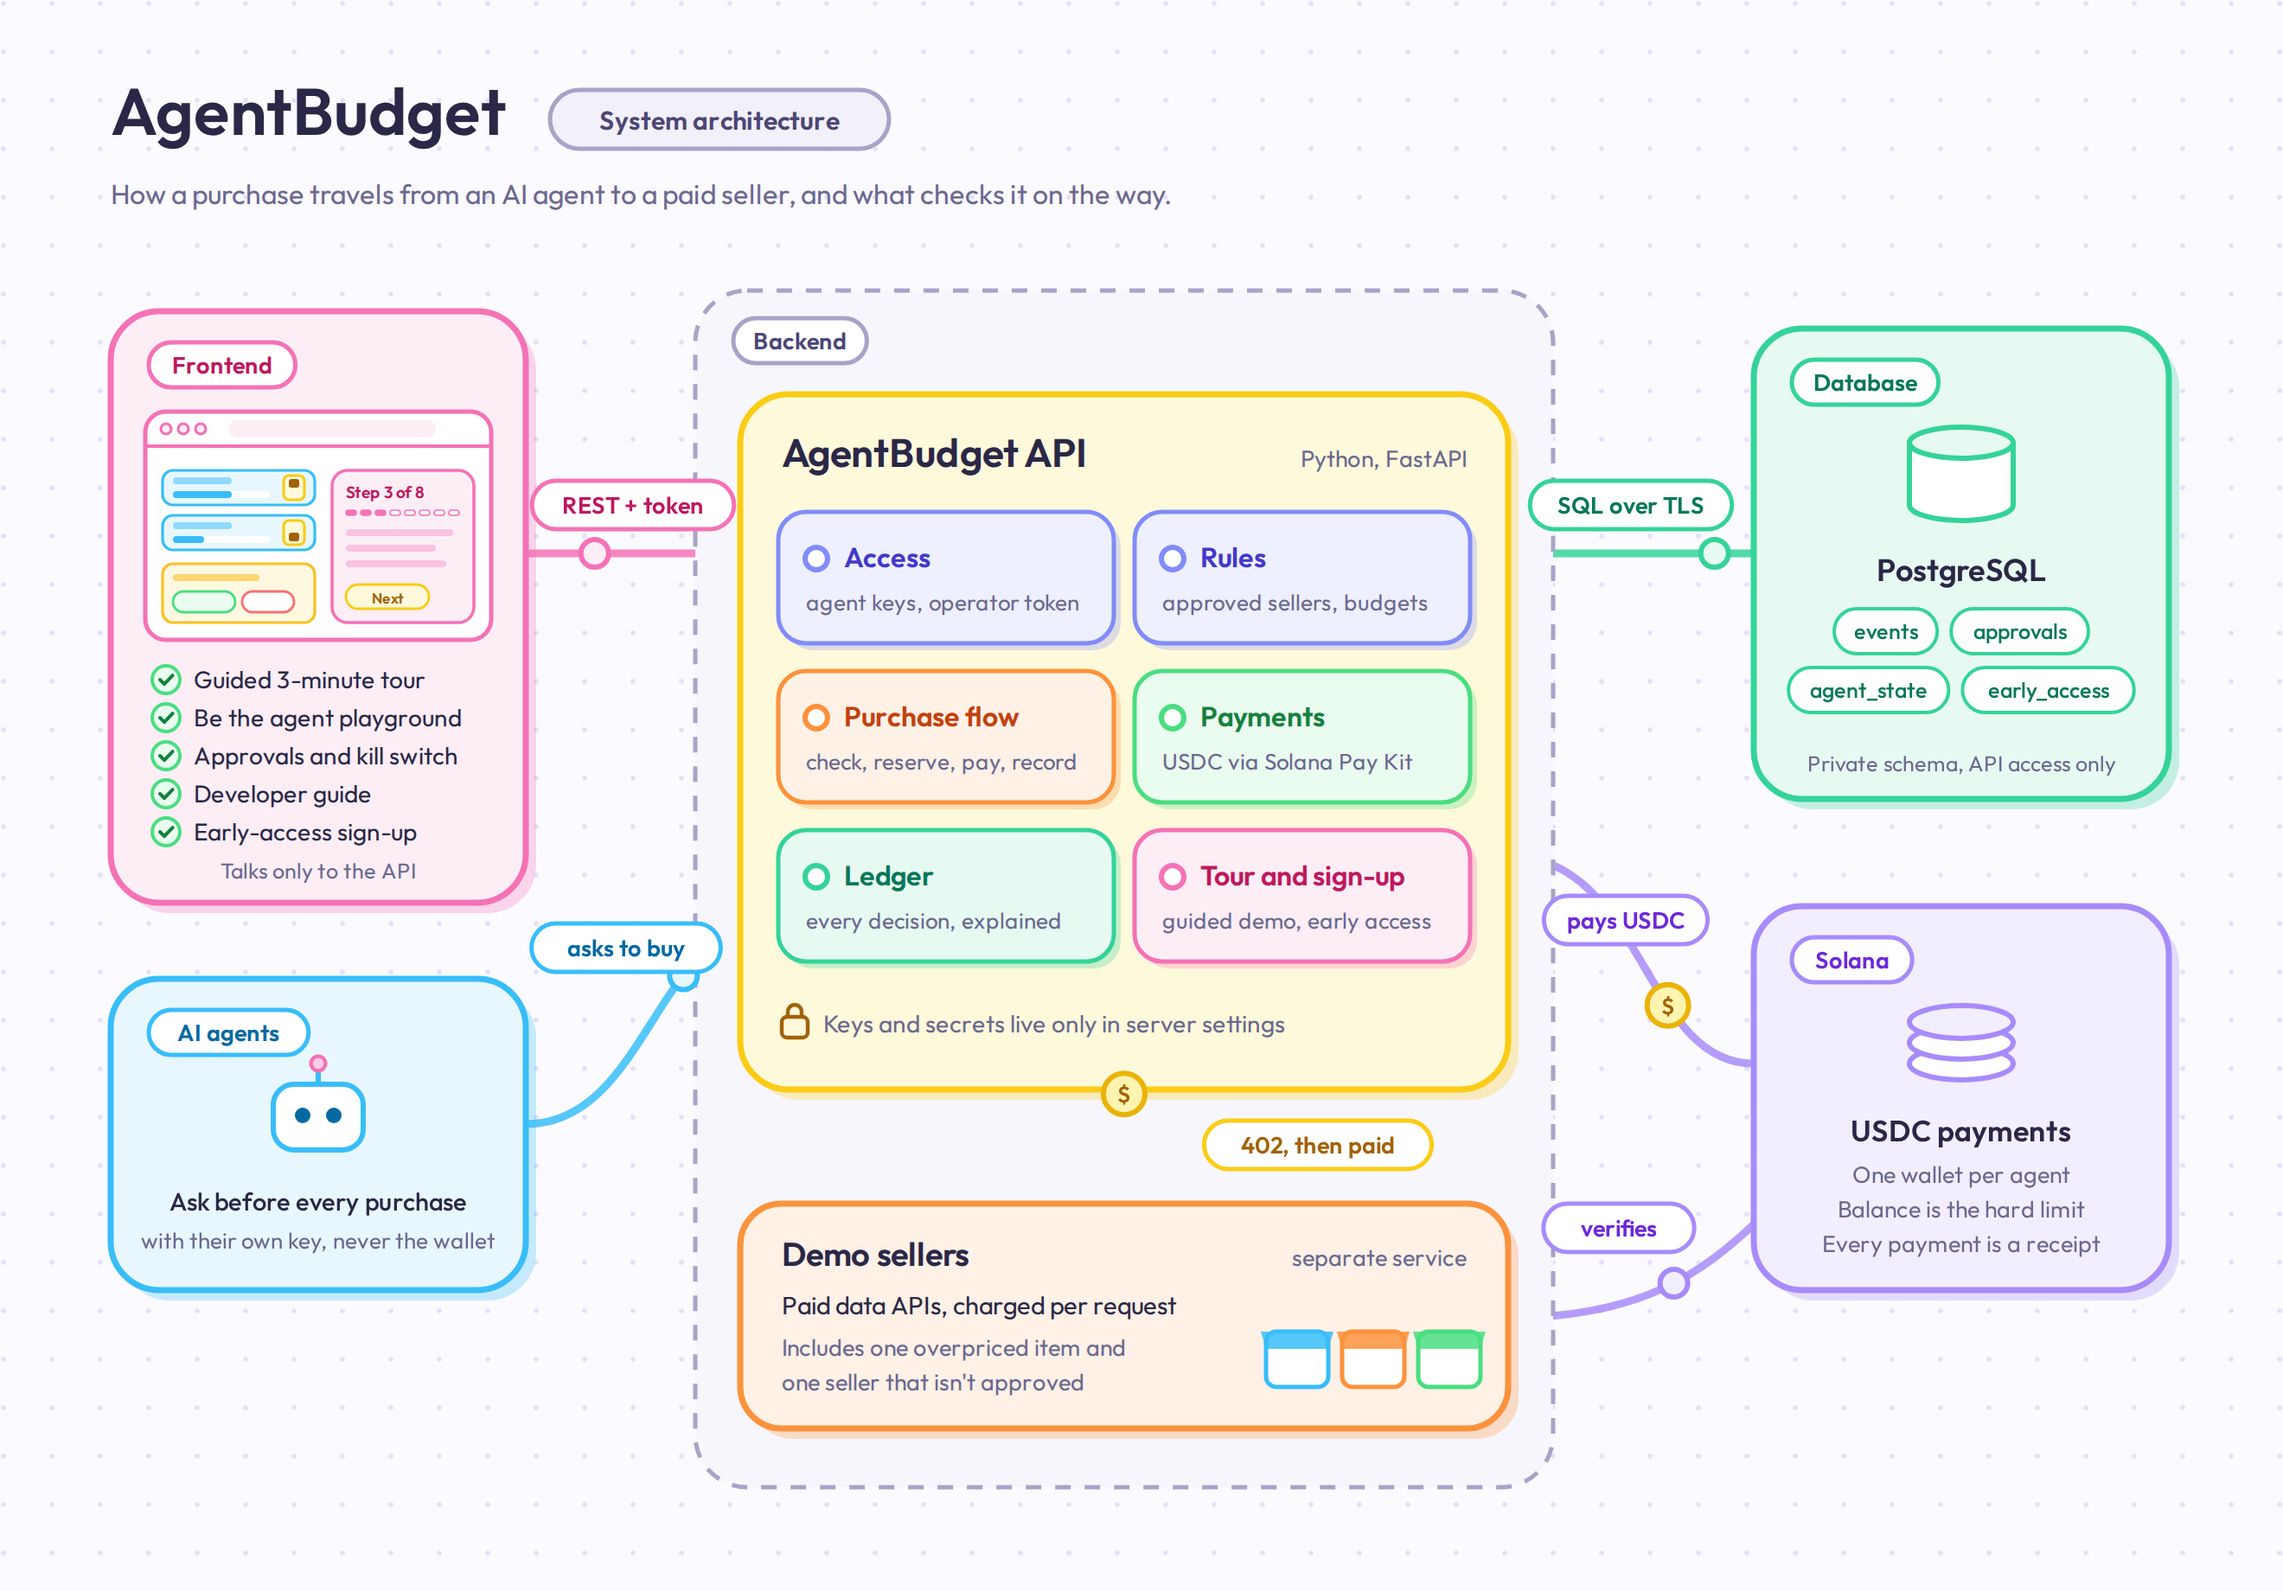
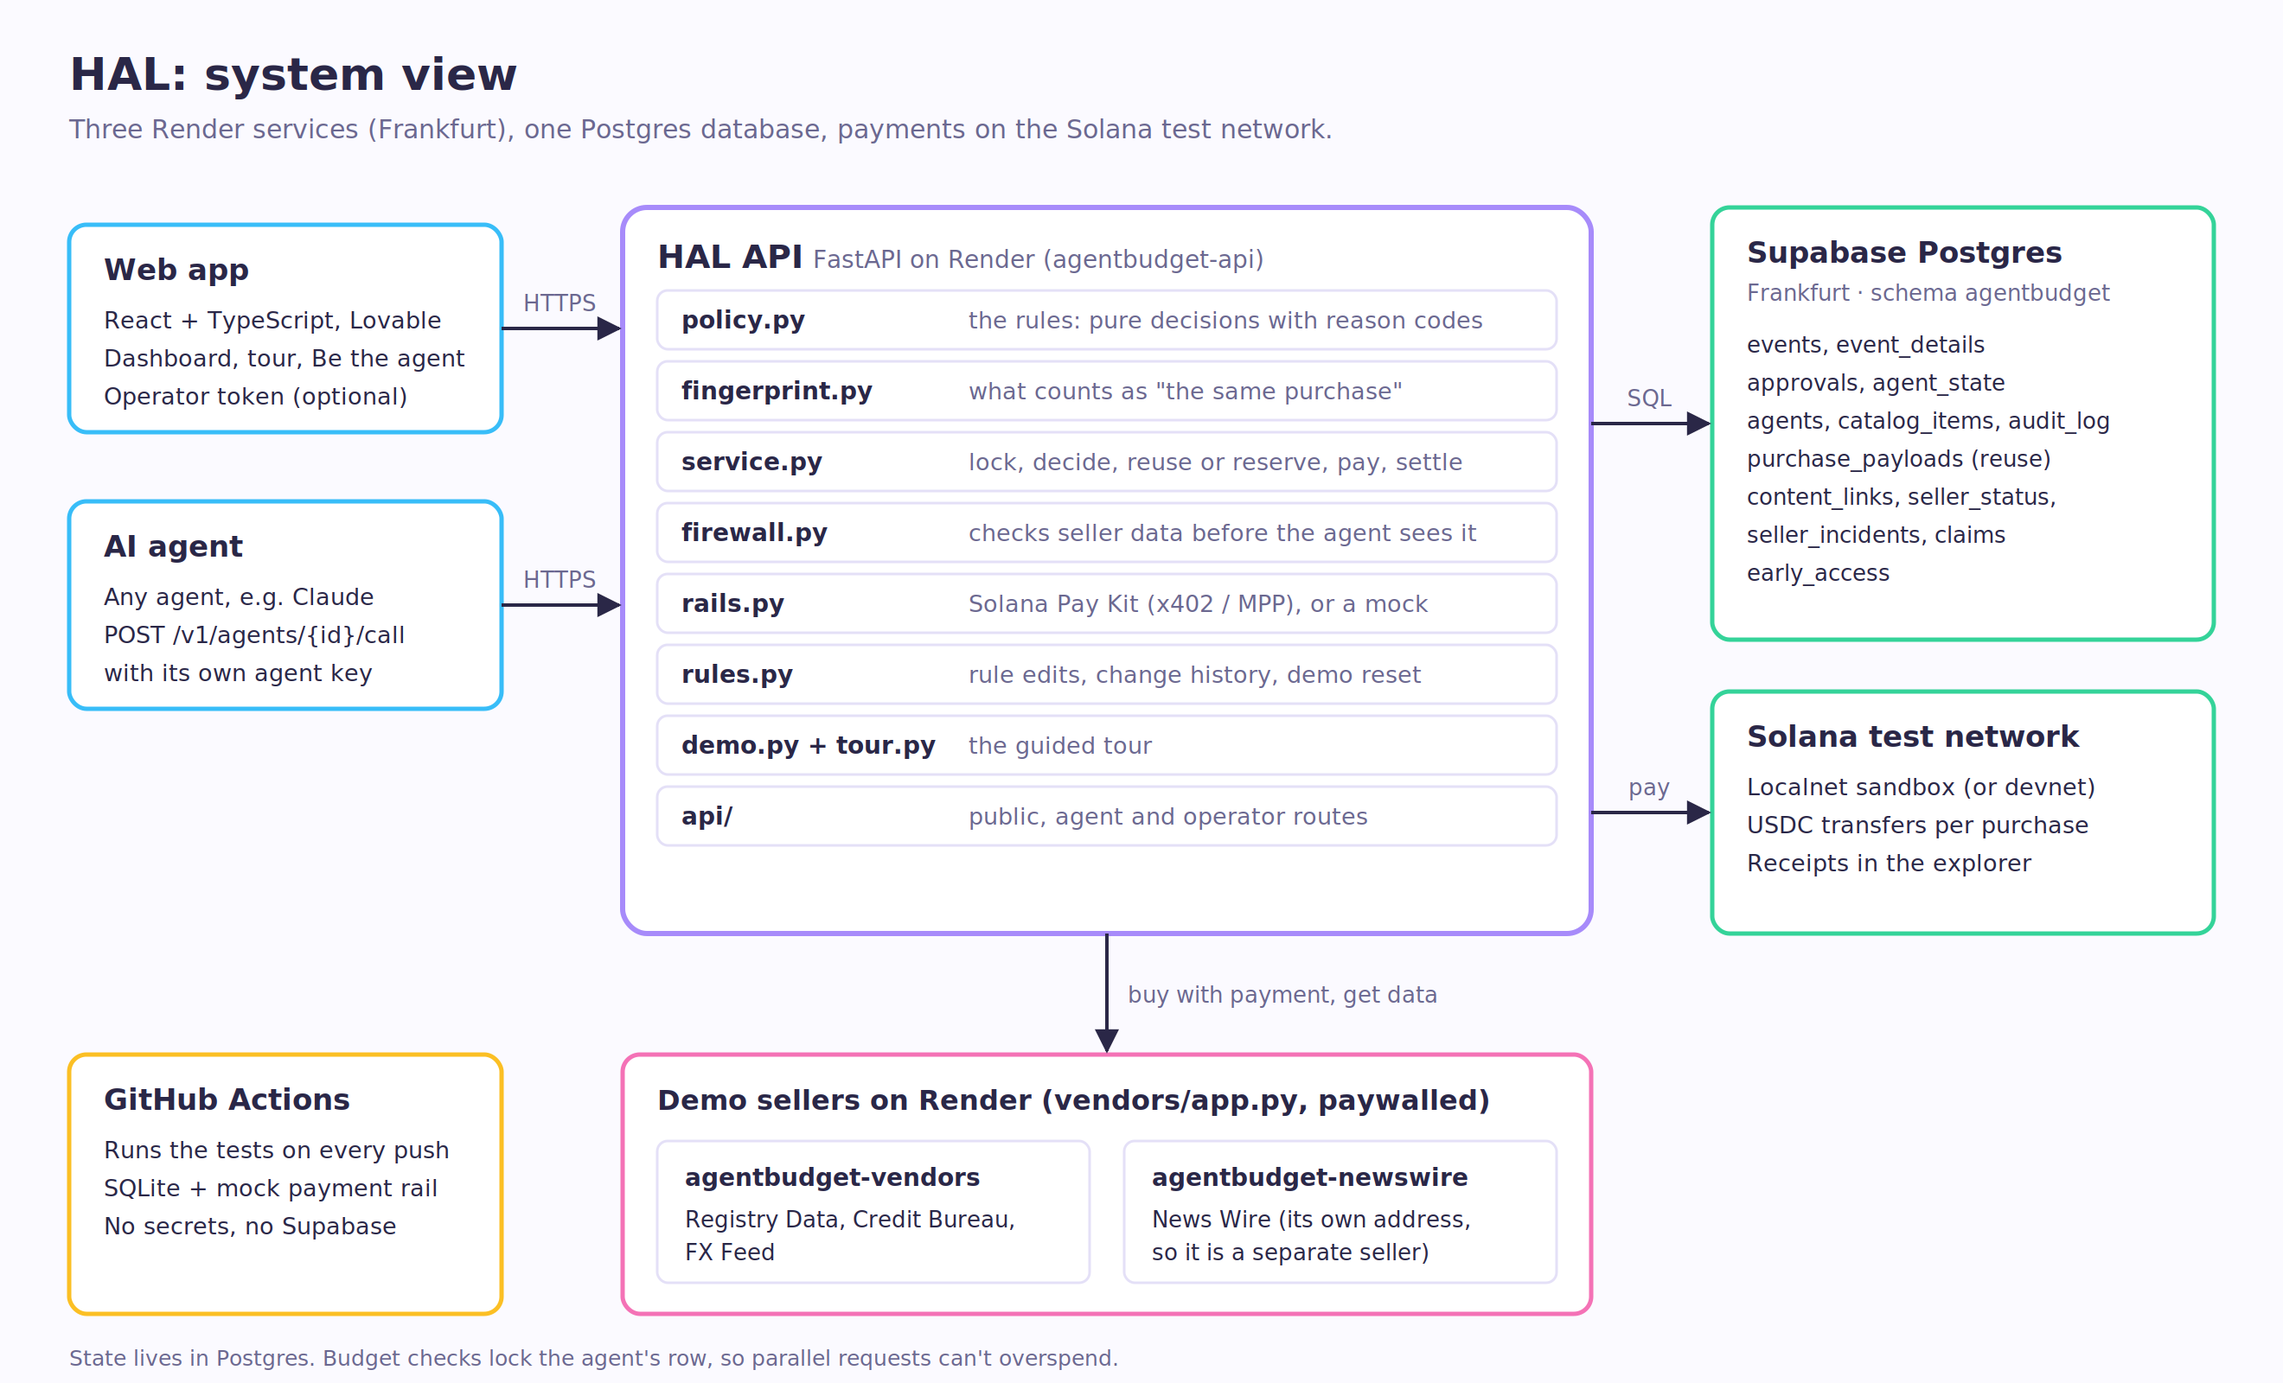
Refactor: 1.8.4 | refactor code structure and remove redundant sections for improved readability and maintainability

Changed region(s): [[0.0311, 0.0312, 0.9629, 1.0]]

diff --git a/app/main.py b/app/main.py
@@ -27,7 +27,7 @@ from .schemas import HealthView
 from .service import SpendService
 from .settings import Settings
 
-VERSION = "1.8.3"
+VERSION = "1.8.4"
 log = logging.getLogger("agentbudget")
 
 

diff --git a/docs/PRODUCT.md b/docs/PRODUCT.md
@@ -12,14 +12,14 @@ Owner: Sarbajit Chatterjee. Status: MVP for Superteam Germany's *Build an MVP wi
 
 | The listing asks | Our answer, in short | Where you see it |
 |---|---|---|
-| Find a real problem | Agents can now pay for data per request. But the only safe options today are no spending at all, or a person approving every purchase. | Home → "The problem"; slide 2 |
-| Explain who you're solving it for | First: teams whose agents already pay per request on Solana. Next: the person who approves their spending. Later: companies that want agents to buy for them. | Home → "Who it's for"; slide 3 |
+| Find a real problem | Agents can now pay for data per request. But the only safe options today are no spending at all, or a person approving every purchase. | Home → "Agents can pay now. Nobody can safely let them." |
+| Explain who you're solving it for | First: teams whose agents already pay per request on Solana. Next: the person who approves their spending. Later: companies that want agents to buy for them. | Home → "You build the agent" / "You approve the spending" |
 | Build a working prototype with a Solana feature | Every purchase is paid in USDC on Solana through Solana Pay Kit, and every payment has a receipt on the blockchain. | Live demo; GitHub |
 | Make it easy for its users to understand and use | A guided 8-step tour where the visitor is in charge, a "Be the agent" playground, plain-language reasons on every decision, and a three-step guide for developers. | Live demo; Connect your agent |
-| Explain what makes it useful | Small purchases happen on their own. Big ones wait for a person. Wrong ones are blocked. A purchase already paid is answered from the stored result. A runaway loop is stopped automatically. Hidden instructions in seller data are removed or flagged, and traced to the seller. One switch stops an agent. Every payment has a receipt. | Tour; Home → "What you control" |
-| Explain how you'd reach first users | An early-access sign-up in the app, plus direct outreach to Solana agent builders: Superteam Germany, the WHU hackathon teams, and sellers listed in Solana's paid-API directory. Free setup for the first 10 teams. | Early access page; slide 8 |
-| A clear role for Solana | Payments of a few cents only make sense with fees of a fraction of a cent. Sellers need no account for the agent. The wallet balance is a hard limit. Each payment is a public receipt. | Home → "Why Solana" calculator; slide 6 |
-| Potential to grow: who would use it, and why | Every team that lets an agent spend money needs these rules. We start where agents already pay today, then follow agent payments into companies. | Slides 8 and 9 |
+| Explain what makes it useful | Small purchases happen on their own. Big ones wait for a person. Wrong ones are blocked. A purchase already paid is answered from the stored result. A runaway loop is stopped automatically. Hidden instructions in seller data are removed or flagged, and traced to the seller. One switch stops an agent. Every payment has a receipt. | Tour; Home → "What you control." |
+| Explain how you'd reach first users | An early-access sign-up in the app, plus direct outreach to Solana agent builders: Superteam Germany, the WHU hackathon teams, and sellers listed in Solana's paid-API directory. Free setup for the first 10 teams. | Early access page |
+| A clear role for Solana | Payments of a few cents only make sense with fees of a fraction of a cent. Sellers need no account for the agent. The wallet balance is a hard limit. Each payment is a public receipt. | Home → "Why this only works on Solana." |
+| Potential to grow: who would use it, and why | Every team that lets an agent spend money needs these rules. We start where agents already pay today, then follow agent payments into companies. | This brief: "How we reach the first 10 users" |
 | Submit a deck link, a public GitHub repo, follow @SuperteamDE, be a WHU participant | Deck link in the submission form; this repo is public. | — |
 | Skills: frontend, backend, blockchain, design | Lovable web app (frontend, design), FastAPI and Supabase (backend), Solana Pay Kit and USDC (blockchain). | README |
 
@@ -69,7 +69,7 @@ These come from how agents pay per request today. They're our working assumption
 
 ## Why Solana
 
-1. **Tiny payments make sense.** A 2-cent purchase costs about 0.0013 USD in network fees on Solana. With typical online card pricing (2.9% + 0.30 USD) it costs more than 30 cents. For 1,000 purchases of 2 cents each: about 300 USD in card fees against 1.30 USD on Solana.
+1. **Tiny payments make sense.** On Solana, the network fee for a payment is a fraction of a cent. With typical online card pricing (2.9% + 0.30 USD), a 2-cent purchase would cost more than 30 cents in fees.
 2. **No accounts with every seller.** The agent pays a seller the moment it asks, without signing up, without an API key and without prepaid credit.
 3. **A limit software can't break.** The agent can never spend more than its wallet holds. On the test network, the wallet is topped up to the daily budget at startup, before each demo and on Reset demo.
 4. **Receipts anyone can check.** Every payment has a public record, which makes the accountant export trustworthy.
